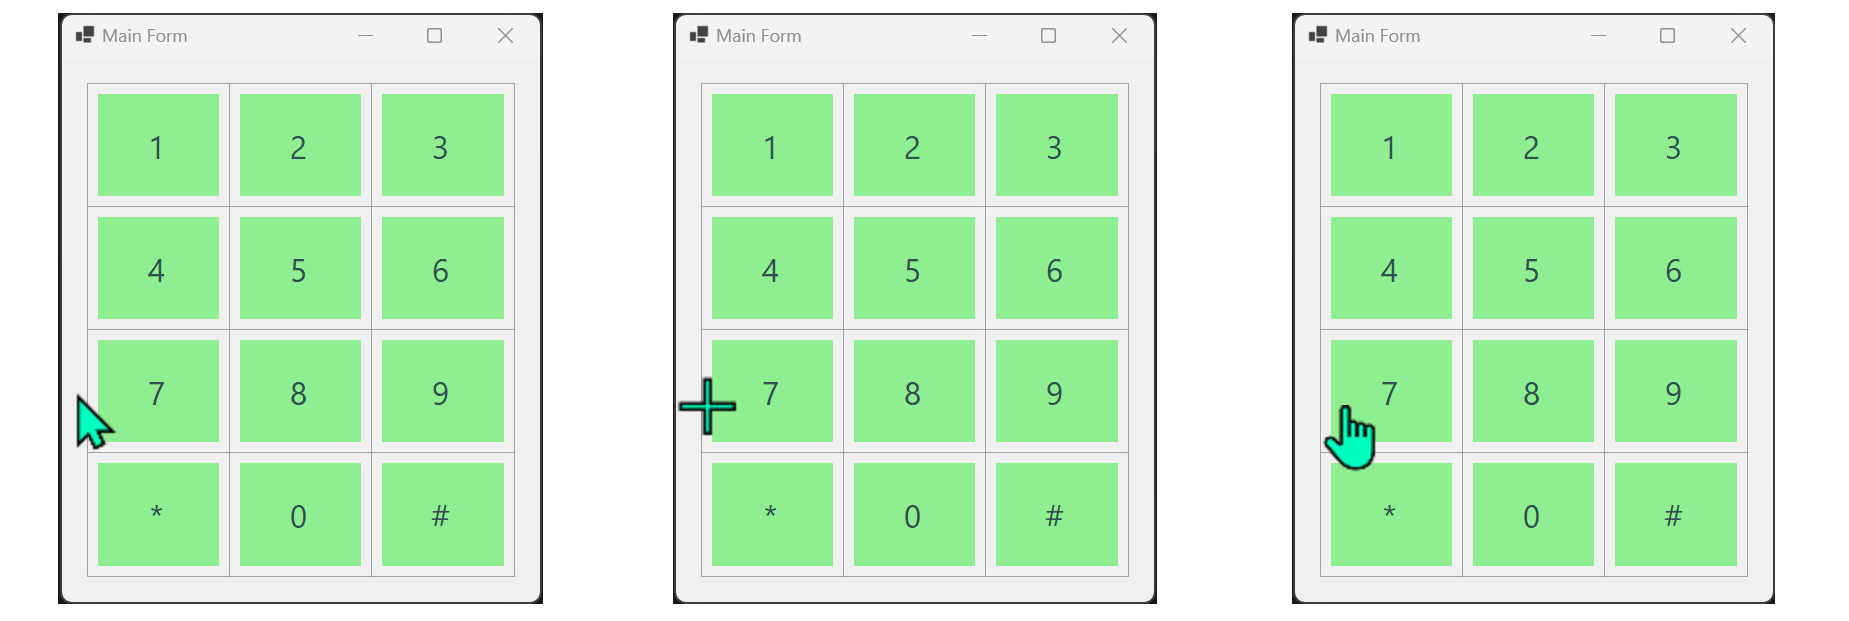
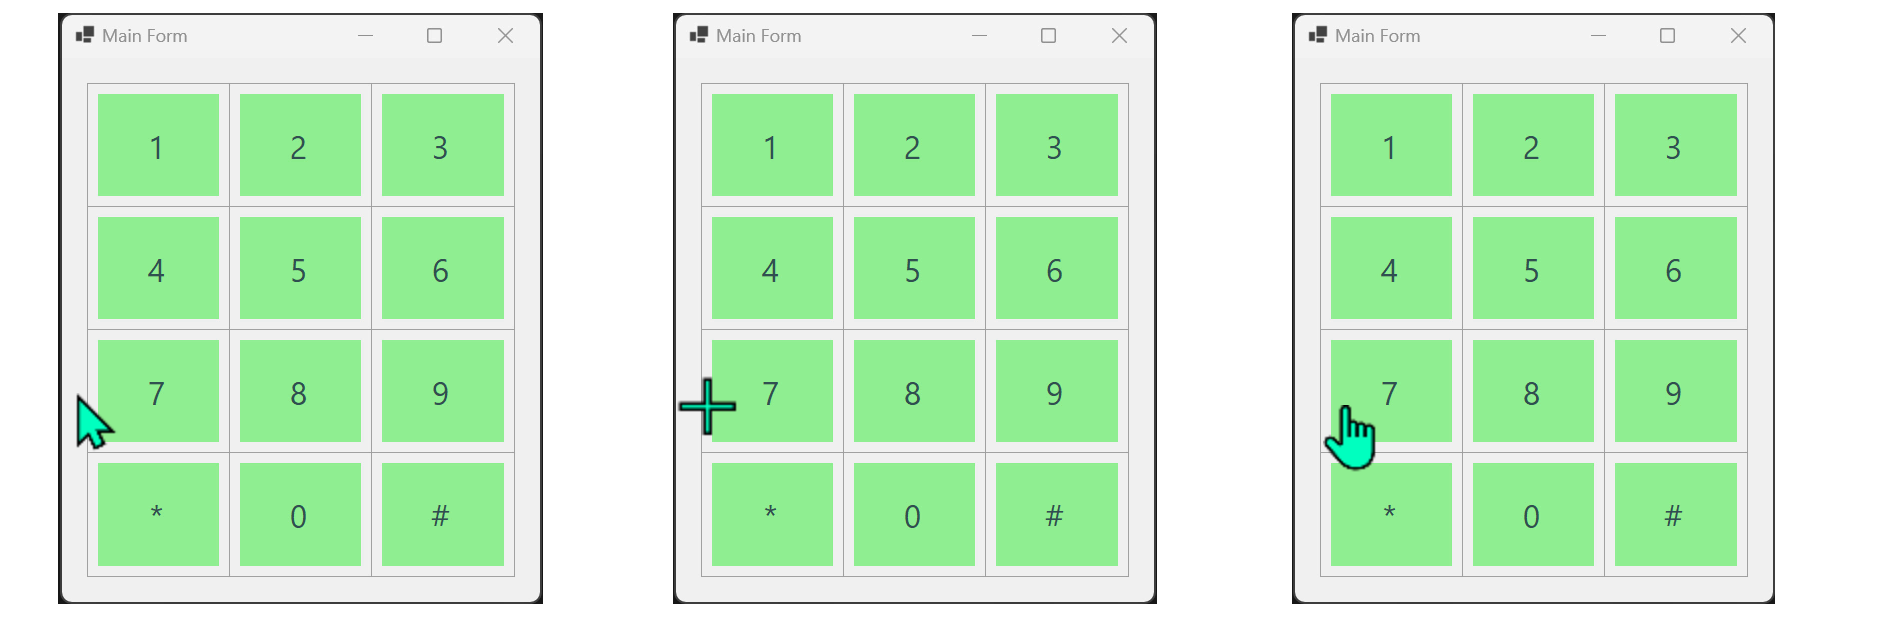
RevA readme++

diff --git a/README.md b/README.md
@@ -1,9 +1,8 @@
-If I get what you're asking, provided you have controls in the cells of the `TableLayoutPanel` all one would have to do is set different cursors for:
+If I get what you're asking, provided you have controls in the cells of the `TableLayoutPanel` all one would have to do is set the different cursors one time for:
 
-- Main form (arrow)
+- Main form (Arrow)
 - Table layout panel (Cross)
 - The controls therein contained (e.g. Hand)
-
 
 [![screenshot][1]][1]
 
@@ -19,14 +18,24 @@ Everything else should happen on its own.
         // TableLayoutPanel has CROSS
         tableLayoutPanel.Cursor = Cursors.Cross;
 
+        int key = 0; string text;
         for (int column = 0; column < tableLayoutPanel.ColumnCount; column++)
             for (int row = 0; row < tableLayoutPanel.RowCount; row++)
             {
-                tableLayoutPanel.Controls.Add(new Panel
+                switch (++key)
+                {
+                    case 10: text = "*"; break;
+                    case 11: text = "0"; break;
+                    case 12: text = "#"; break;
+                    default: text = $"{key}";  break;
+                }
+                tableLayoutPanel.Controls.Add(new Label
                 {
                     BackColor = Color.LightGreen,
                     Anchor = (AnchorStyles)0xF,
-                    Margin = new Padding(10),
+                    Margin = new Padding(10),  
+                    Text = text,
+                    TextAlign = ContentAlignment.MiddleCenter,
 
                     // Controls in the table have HAND
                     Cursor = Cursors.Hand,
@@ -34,4 +43,5 @@ Everything else should happen on its own.
             }
     }
 
-  [1]: https://i.stack.imgur.com/gRIyU.png
+
+  [1]: https://i.stack.imgur.com/1syA7.png
